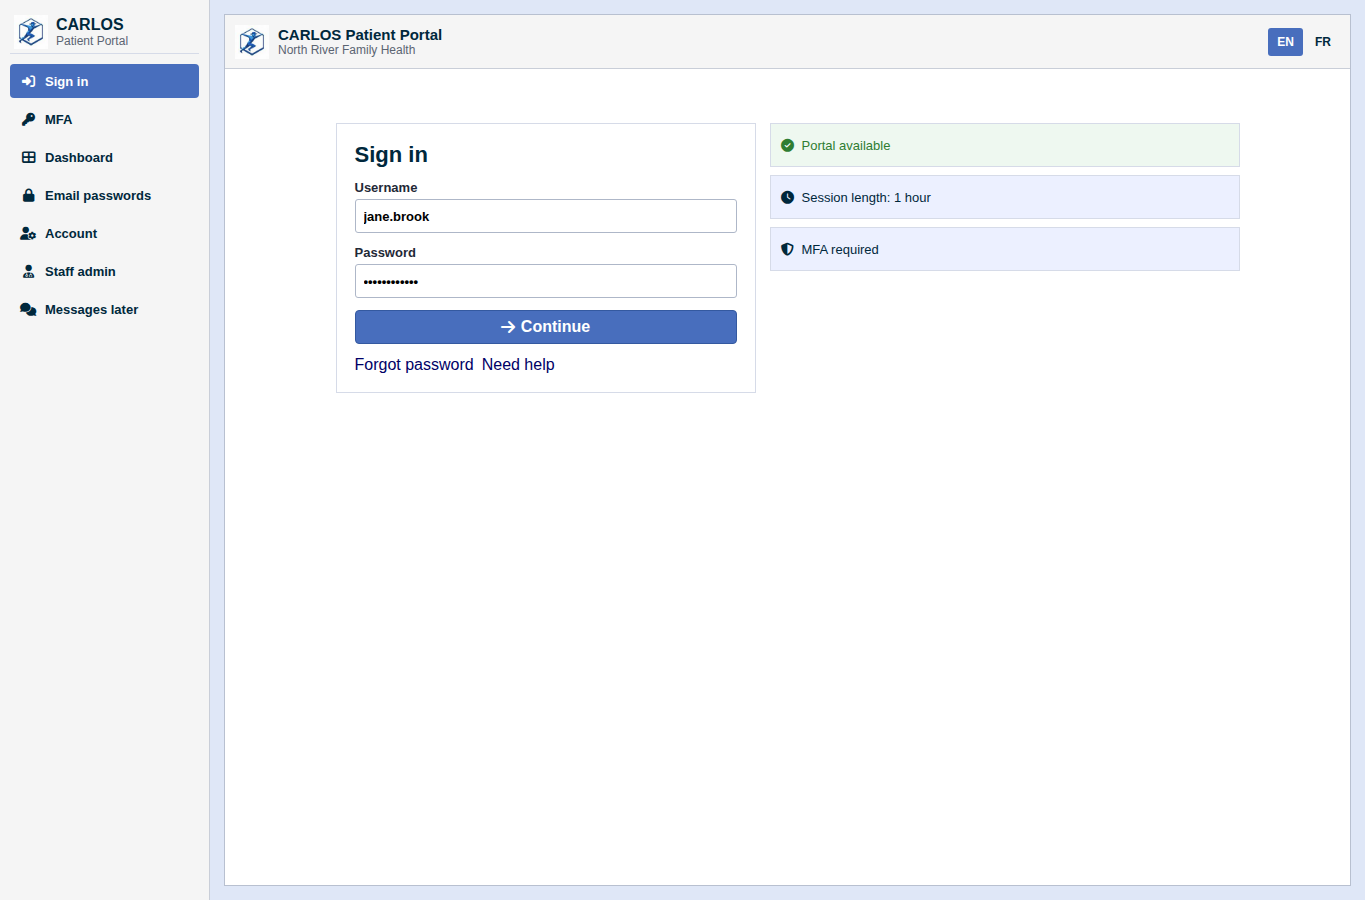
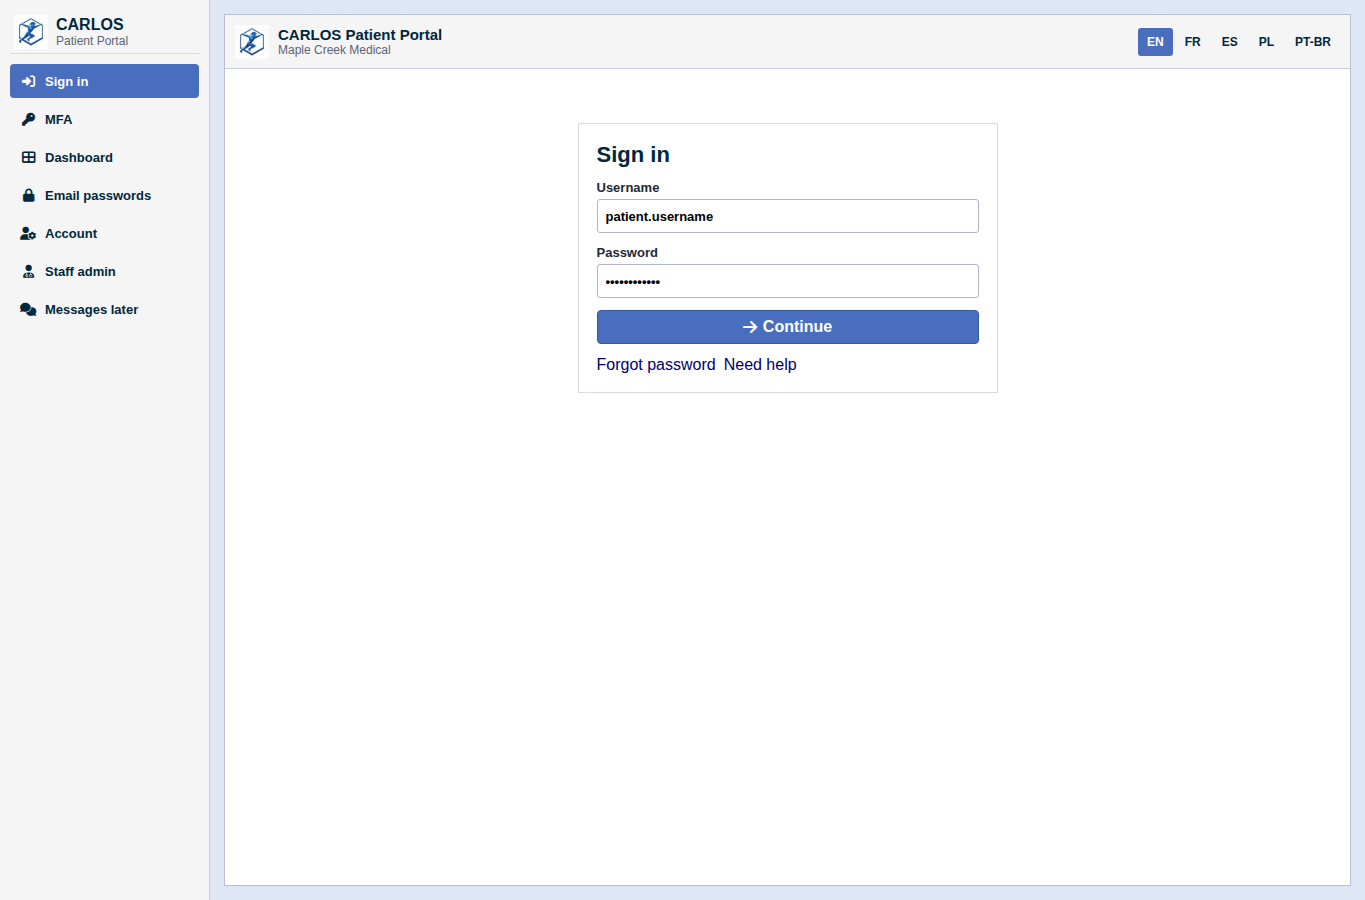
docs: update patient portal sign in mock

diff --git a/patient-portal-mocks/index.html b/patient-portal-mocks/index.html
@@ -33,22 +33,25 @@
             <img src="../src/main/webapp/images/oscar_logo_small.png" alt="" class="brand-logo">
             <div>
               <strong>CARLOS Patient Portal</strong>
-              <span>North River Family Health</span>
+              <span>Maple Creek Medical</span>
             </div>
           </div>
           <div class="language-switch" aria-label="Language">
             <button class="text-tab selected">EN</button>
             <button class="text-tab">FR</button>
+            <button class="text-tab">ES</button>
+            <button class="text-tab">PL</button>
+            <button class="text-tab">PT-BR</button>
           </div>
         </header>
 
-        <div class="auth-layout">
+        <div class="auth-layout single">
           <section class="auth-panel" aria-labelledby="signin-title">
             <h1 id="signin-title">Sign in</h1>
             <form class="form-stack">
               <label>
                 <span>Username</span>
-                <input type="text" value="jane.brook" autocomplete="username">
+                <input type="text" value="patient.username" autocomplete="username">
               </label>
               <label>
                 <span>Password</span>
@@ -60,21 +63,6 @@
                 <a href="#">Need help</a>
               </div>
             </form>
-          </section>
-
-          <section class="status-strip" aria-label="Portal status">
-            <div class="status-item good">
-              <i class="fas fa-check-circle"></i>
-              <span>Portal available</span>
-            </div>
-            <div class="status-item">
-              <i class="fas fa-clock"></i>
-              <span>Session length: 1 hour</span>
-            </div>
-            <div class="status-item">
-              <i class="fas fa-shield-alt"></i>
-              <span>MFA required</span>
-            </div>
           </section>
         </div>
       </section>

diff --git a/patient-portal-mocks/styles.css b/patient-portal-mocks/styles.css
@@ -218,6 +218,11 @@ a:hover {
   padding: 0 18px;
 }
 
+.auth-layout.single {
+  grid-template-columns: minmax(280px, 420px);
+  justify-content: center;
+}
+
 .auth-panel,
 .side-panel,
 .settings-panel,
